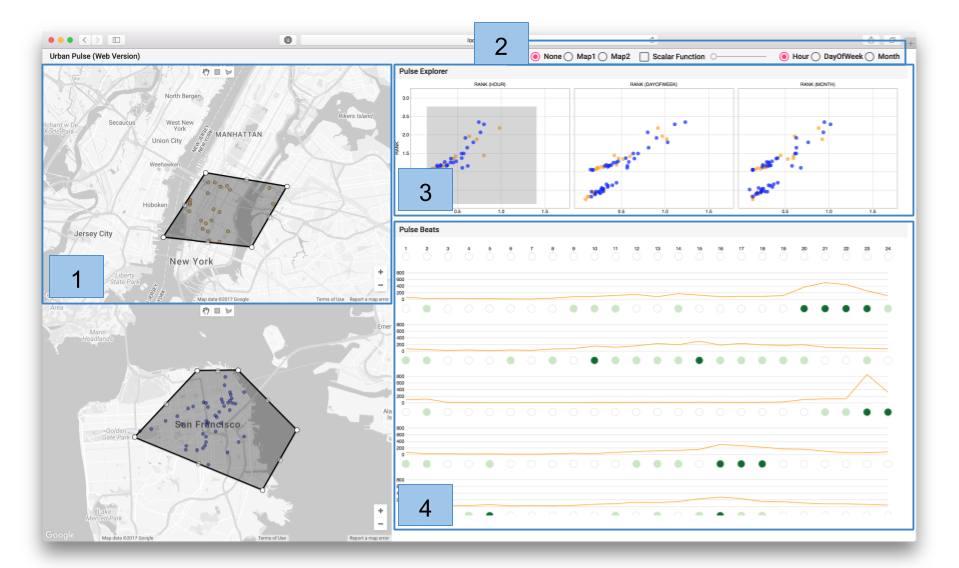
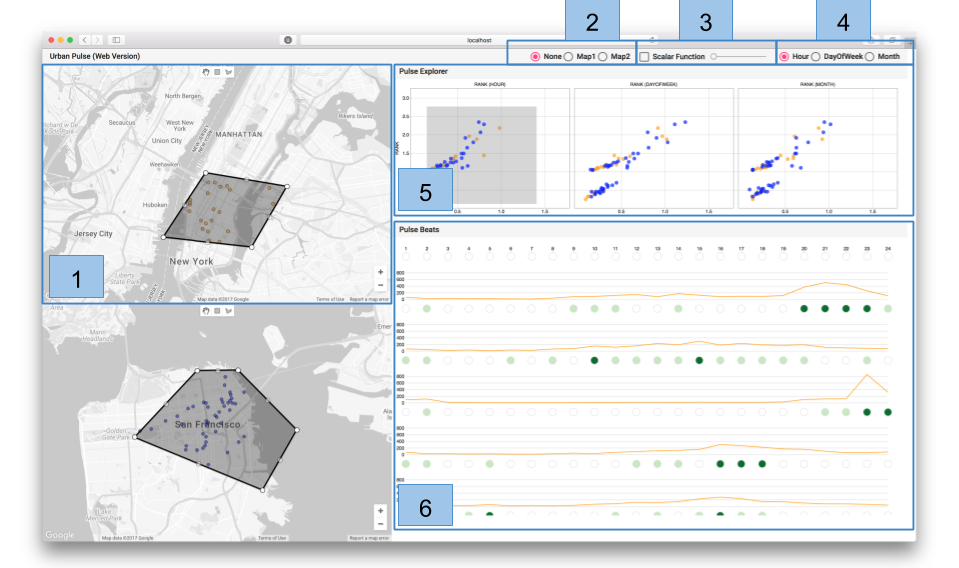
update readme

diff --git a/README.md b/README.md
@@ -139,6 +139,18 @@ The argument `data1`indicates that the computed pulse files are located in the f
 
 Note that the data folder must be inside `vis/src` because `ng serve` will only serve files that are inside it.
 
-explain interface...
+The image below shows the interface of Urban Pulse:
 
-![alt text](https://raw.githubusercontent.com/ViDA-NYU/urban-pulse/master/urban-pulse.png)
+![Urban Pulse interface](https://raw.githubusercontent.com/ViDA-NYU/urban-pulse/master/urban-pulse.png?token=ACRuiiFRWaexsmy54mPTdD8Mv8exCfYYks5ZiIVnwA%3D%3D)
+
+1. The maps on the left show the computed pulses in each city. Pulses can be selected by brushing with one of the selection tools available on the top part of each map.
+
+2. The pulse similarity search mode can be activated by choosing `Map1` or `Map2`.
+
+3. Enables the display of the scalar function for the temporal resolution selected in 4.
+
+4. Selects a temporal resolution.
+
+5. Shows the pulses in three different temporal resolutions. If pulse similarity search mode is selected, displays a single plot with the similarity measures for all selected pulses.
+
+6. Shows the beats for all selected pulses. The circles on the top allow for filtering of pulses with certain beat values.
